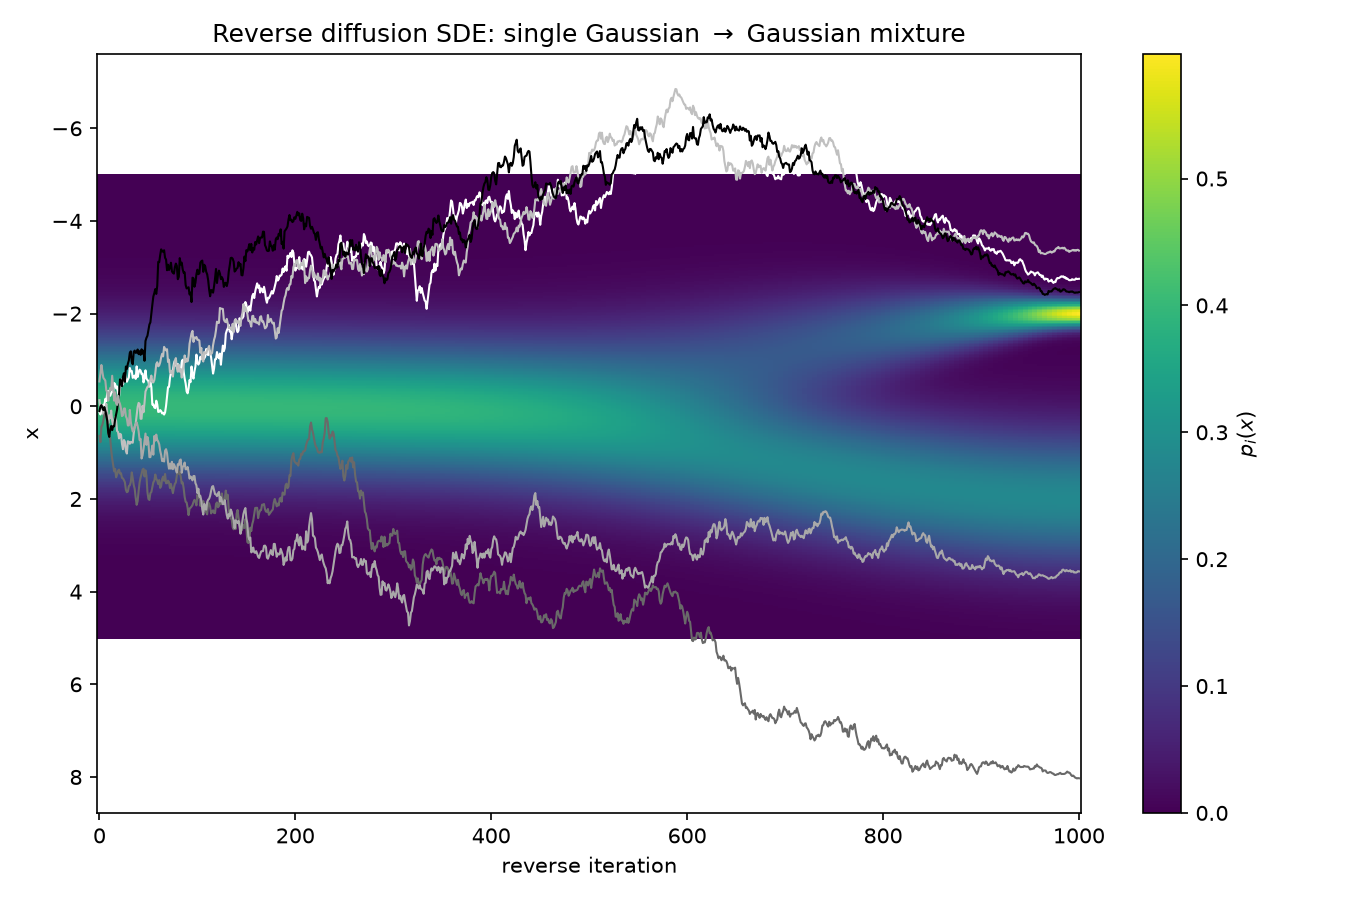
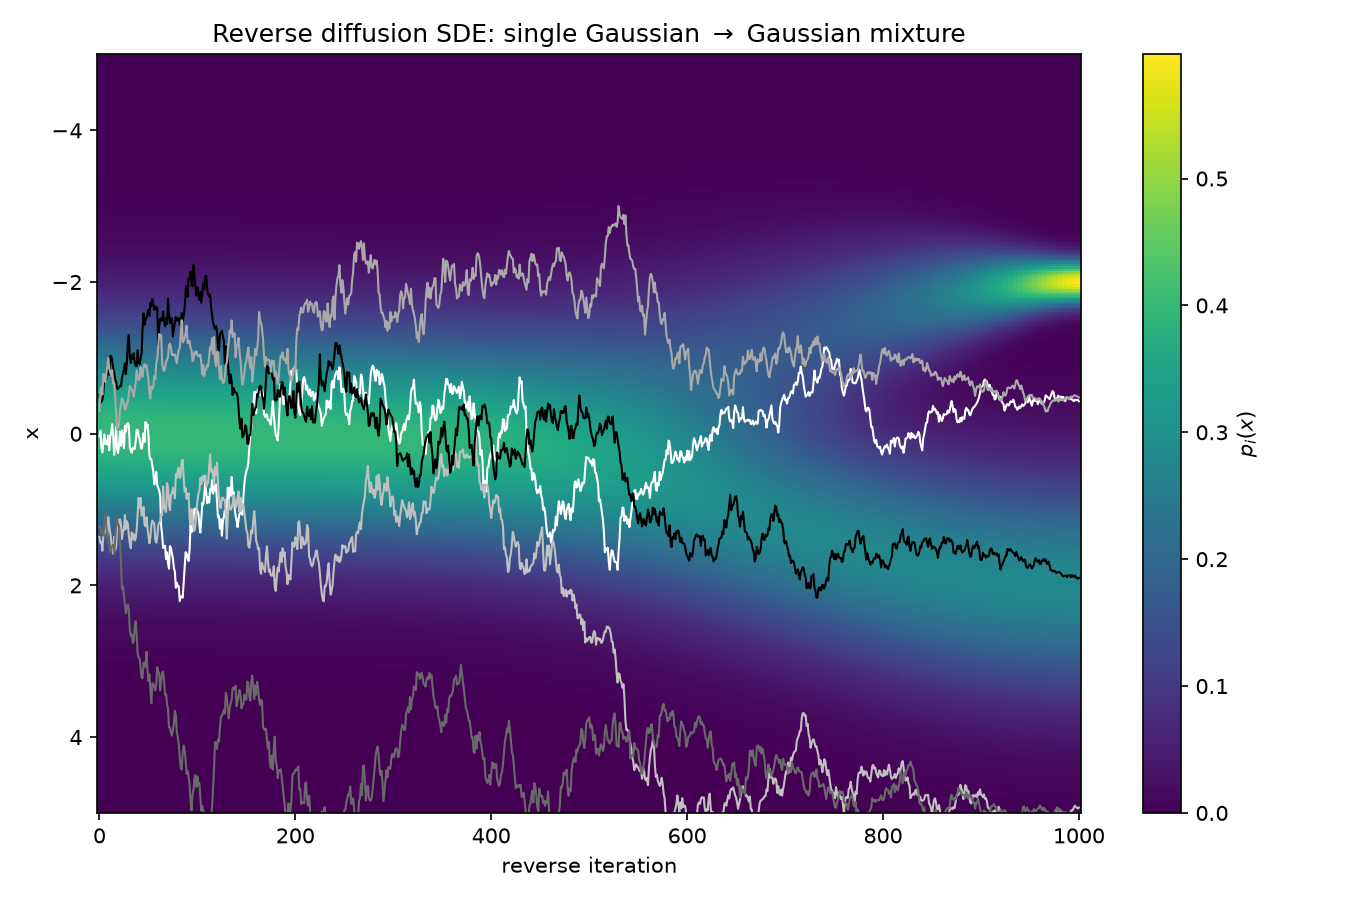
updated smld forward

diff --git a/sde_diffusion/smld_forward.py b/sde_diffusion/smld_forward.py
@@ -1,0 +1,112 @@
+"""
+Replicates Theorem 4.3: the SMLD (score-matching Langevin dynamics /
+NCSN-style) forward process written as a Variance-Exploding (VE) SDE.
+
+Discrete SMLD forward: x_i = x_0 + sigma_i * z,   z ~ N(0, I), with a
+geometric noise schedule sigma_i (sigma_0 ~ 0, growing to sigma_max).
+
+Taking the continuous-time limit as in the proof of Theorem 4.3 gives:
+
+    dx = sqrt( d[sigma(t)^2] / dt ) dw                            (Eq. 4.19)
+
+Unlike the VP-SDE (DDPM), there is NO drift term (f(x,t) = 0) -- the data is
+never rescaled, only progressively buried in additive noise of growing scale.
+This means the marginal p_t(x) simply adds sigma(t)^2 to each mixture
+component's variance, leaving the means and mixture weights untouched:
+
+    p_t(x) = sum_k pi_k N(x | mu_k, sigma_k0^2 + sigma(t)^2)
+
+This script simulates the VE-SDE via Euler-Maruyama and checks the resulting
+histogram against that closed form, the VE-SDE analogue of what
+forward_sde.py does for the VP-SDE.
+"""
+
+import numpy as np
+import matplotlib.pyplot as plt
+
+# --- mixture / VE-SDE settings (same mixture as Example 2.1) ---
+PI = (0.3, 0.7)
+MU0 = (-2.0, 2.0)
+SIGMA0 = (0.2, 1.0)
+
+SIGMA_MIN, SIGMA_MAX = 0.01, 10.0  # geometric noise schedule, t in [0, 1]
+T_MAX = 1.0
+N_STEPS = 1000
+DT = T_MAX / N_STEPS
+
+M = 20000
+T_SNAPSHOTS = [0.0, 0.2, 0.4, 0.6, 1.0]
+X_RANGE = (-15, 15)
+
+rng = np.random.default_rng(0)
+
+
+def sigma_of_t(t):
+    """Geometric schedule sigma(t) = sigma_min * (sigma_max / sigma_min)^t."""
+    return SIGMA_MIN * (SIGMA_MAX / SIGMA_MIN) ** t
+
+
+def g_diffusion(t):
+    """g(t) = sqrt(d[sigma(t)^2]/dt) for the geometric schedule, in closed form."""
+    log_ratio = np.log(SIGMA_MAX / SIGMA_MIN)
+    return sigma_of_t(t) * np.sqrt(2 * log_ratio)
+
+
+def sample_x0(n):
+    comps = rng.choice(len(PI), size=n, p=PI)
+    mus = np.array(MU0)[comps]
+    sigmas = np.array(SIGMA0)[comps]
+    return rng.normal(mus, sigmas)
+
+
+def simulate_ve_sde(n_particles, n_steps, dt):
+    x = sample_x0(n_particles)
+    snapshots = {}
+    t = 0.0
+    if 0.0 in T_SNAPSHOTS:
+        snapshots[0.0] = x.copy()
+
+    for step in range(n_steps):
+        eps = rng.normal(size=n_particles)
+        x = x + g_diffusion(t) * np.sqrt(dt) * eps  # f(x,t) = 0, no drift
+        t += dt
+        for t_snap in T_SNAPSHOTS:
+            if t_snap > 0 and abs(t - t_snap) < dt / 2:
+                snapshots[t_snap] = x.copy()
+
+    return snapshots
+
+
+def closed_form_pdf(x, t):
+    """Marginal p_t(x) under the VE-SDE: variance-only broadening of each component."""
+    sigma_t2 = sigma_of_t(t) ** 2
+    density = np.zeros_like(x)
+    for pi_k, mu_k, sigma_k in zip(PI, MU0, SIGMA0):
+        var = sigma_k ** 2 + sigma_t2
+        density += pi_k * np.exp(-0.5 * (x - mu_k) ** 2 / var) / np.sqrt(2 * np.pi * var)
+    return density
+
+
+def run():
+    snapshots = simulate_ve_sde(M, N_STEPS, DT)
+    xs = np.linspace(*X_RANGE, 400)
+
+    fig, axes = plt.subplots(1, len(T_SNAPSHOTS), figsize=(4 * len(T_SNAPSHOTS), 3.5))
+    for ax, t in zip(axes, T_SNAPSHOTS):
+        ax.hist(snapshots[t], bins=80, range=X_RANGE, density=True,
+                color="gold", edgecolor="gold", label="Euler-Maruyama samples")
+        ax.plot(xs, closed_form_pdf(xs, t), color="red", linewidth=1.5, label="closed-form $p_t(x)$")
+        ax.set_title(f"t = {t}  ($\\sigma(t)$={sigma_of_t(t):.2f})")
+        ax.set_xlim(*X_RANGE)
+    axes[0].legend(fontsize=7)
+
+    fig.suptitle(r"SMLD forward VE-SDE ($dx = g(t)\,dw$, no drift): variance keeps exploding")
+    fig.tight_layout()
+
+    out_path = "smld_forward.png"
+    fig.savefig(out_path, dpi=150)
+    print(f"Saved figure to {out_path}")
+
+
+if __name__ == "__main__":
+    run()

diff --git a/sde_diffusion/reverse_sde.py b/sde_diffusion/reverse_sde.py
@@ -32,7 +32,7 @@ N_TRAJECTORIES = 5
 X_RANGE = (-5, 5)
 N_X = 300
 
-rng = np.random.default_rng(0)
+rng = np.random.default_rng(11)
 
 betas = np.linspace(BETA_1, BETA_T, T)          # beta_i, i = 1..T (index i-1)
 alphas = 1.0 - betas
@@ -94,7 +94,6 @@ def run():
     for j in range(N_TRAJECTORIES):
         ax.plot(np.arange(T + 1), traj[:, j], color=colors[j % len(colors)], linewidth=1)
 
-    ax.invert_yaxis()
     ax.set_ylim(5, -5)
     ax.set_xlabel("reverse iteration")
     ax.set_ylabel("x")

diff --git a/README.md b/README.md
@@ -31,7 +31,7 @@ uses it) to a local `./data/` on first run, from `storage.googleapis.com/cvdf-da
 
 ## `vae/` — Variational Autoencoder
 
-Implements the ELBO objective from **Theorem 1.4** directly:
+Implements the ELBO objective from VAE paper directly:
 
 ```
 ELBO_{phi,theta}(x) = - (1/M) sum_m ||x - f_theta(mu_phi(x) + sigma_phi(x) eps^(m))||^2 / (2 sigma_dec^2)
